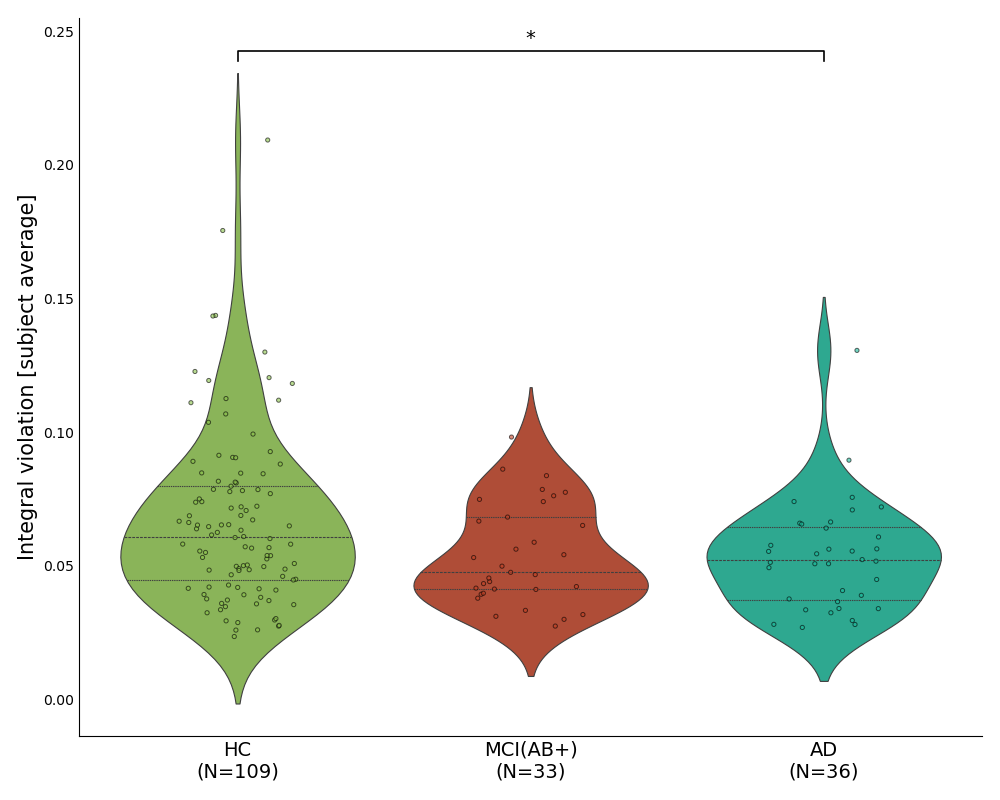
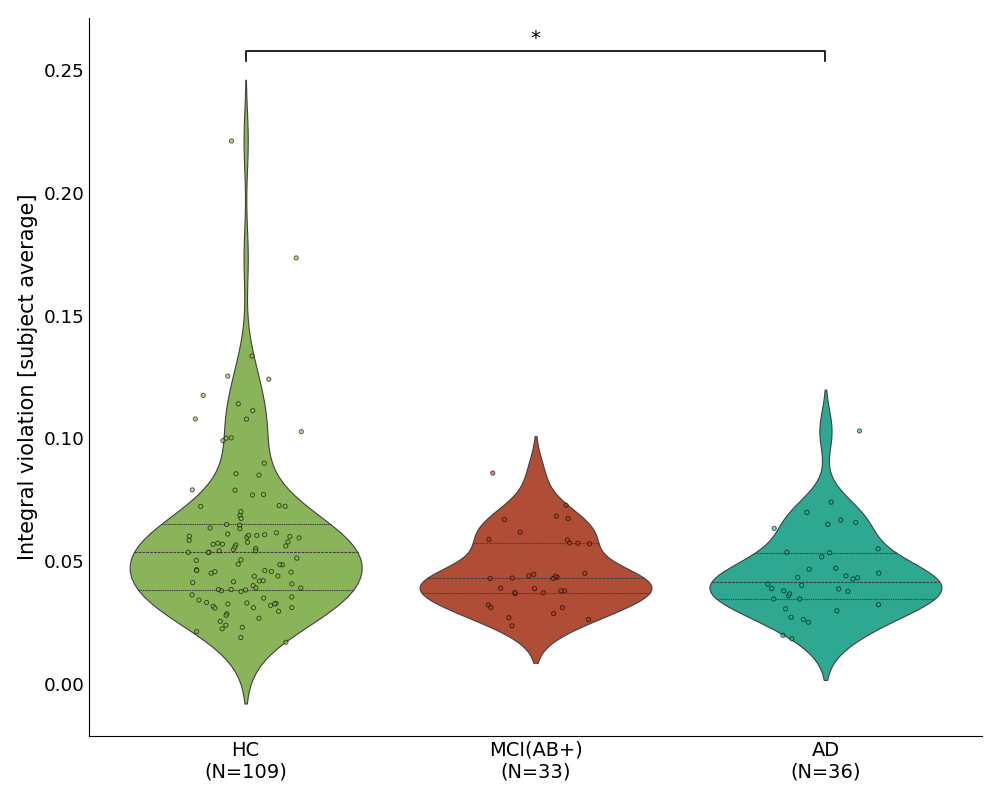
harmonization figure

diff --git a/compute_analysis.py b/compute_analysis.py
@@ -60,10 +60,101 @@ df_based = df_based[:-4] # remove last 4 entries with incomplete data
 df_based.reset_index(drop=True, inplace=True)
 
 ### ANALYSIS PLOTS ###
-df = df_based # model-free: df_free; model-based: df_based
+df = df_free # model-free: df_free; model-based: df_based
 measure = 'I_norm2' # 'I_norm2', 'Tau', 'ABeta'
 RSNs = ['Vis','SalVentAttn', 'SomMot', 'DorsAttn', 'Limbic', 'Cont', 'Def']
 
+print(df.columns)
+print(df.head())
+print(df['subject_id'][2], df['subject_id'][3], df['subject_id'][4], df['subject_id'][5])
+
+
+
+def plot_I_norm2_by_location(df, measure='I_norm2', save_path=None):
+    """
+    Creates a box plot of subject-averaged I_norm2 values grouped by recording location.
+    
+    Parameters
+    ----------
+    df : pd.DataFrame
+        DataFrame containing 'subject_id' and the measure column (e.g., 'I_norm2').
+    measure : str
+        Column name containing the metric values (default: 'I_norm2').
+    save_path : str, optional
+        Path to save the figure. If None, the plot is shown but not saved.
+    
+    Returns
+    -------
+    pd.DataFrame
+        DataFrame with subject averages and their locations.
+    """
+    import matplotlib.pyplot as plt
+    
+    # Extract location from subject_id (3 digits after 'S_')
+    def extract_location(subject_id):
+        parts = subject_id.split('_S_')
+        if len(parts) == 2:
+            return parts[0][:3]  # Get 3 digits after S_
+        return None
+    
+    # Calculate subject average of I_norm2 for each subject
+    subject_averages = []
+    for idx, row in df.iterrows():
+        subject_id = row['subject_id']
+        location = extract_location(subject_id)
+        # Average over the list of I_norm2 values for this subject
+        i_norm2_values = row[measure]
+        if isinstance(i_norm2_values, (list, np.ndarray)):
+            avg_value = np.mean(i_norm2_values)
+        else:
+            avg_value = i_norm2_values
+        subject_averages.append({
+            'subject_id': subject_id,
+            'location': location,
+            f'{measure}_avg': avg_value
+        })
+    
+    avg_df = pd.DataFrame(subject_averages)
+    
+    # Sort locations by number of subjects (descending) for better visualization
+    location_counts = avg_df['location'].value_counts()
+    sorted_locations = location_counts.index.tolist()
+    
+    # Create box plot
+    fig, ax = plt.subplots(figsize=(14, 6))
+    
+    # Prepare data for box plot
+    box_data = [avg_df[avg_df['location'] == loc][f'{measure}_avg'].values 
+                for loc in sorted_locations]
+    
+    bp = ax.boxplot(box_data, labels=sorted_locations, patch_artist=True)
+    
+    # Style the box plot
+    for patch in bp['boxes']:
+        patch.set_facecolor('lightblue')
+        patch.set_alpha(0.7)
+    
+    ax.set_xlabel('Recording Location (Site ID)', fontsize=12)
+    ax.set_ylabel(f'Subject Average {measure}', fontsize=12)
+    ax.tick_params(axis='x', rotation=45)
+    
+    # Add count annotations
+    for i, loc in enumerate(sorted_locations):
+        count = location_counts[loc]
+        ax.annotate(f'n={count}', xy=(i+1, ax.get_ylim()[1]), 
+                    ha='center', va='bottom', fontsize=8, color='gray')
+    
+    plt.tight_layout()
+    
+    if save_path:
+        plt.savefig(save_path, dpi=300, bbox_inches='tight')
+        print(f"Figure saved to {save_path}")
+    
+    plt.show()
+    
+    return avg_df
+
+avg_df = plot_I_norm2_by_location(df, measure='I_norm2')
 ### rearrange data for subject average RSN plots (needed for Fig. A6.2 and Fig. 4.2.4)
 rsn_sub_df = aggregate_all_rsns_for_plotting(
     df=df,
@@ -76,10 +167,10 @@ subject_comparison(df, measure='ABeta', model_type='modelbased', NPARCELLS=NPARC
 subject_comparison(df, measure='Tau', model_type='modelbased', NPARCELLS=NPARCELLS, fit_sigma=fit_sigma, fit_a=fit_a, save_path_plot=save_path_plot, rsn_name='All')
 
 ### Fig. 2.2.1: Empirical vs Simulated FC/COVtau comparisons
-emp_sim_triangles(DL_type=DL_type, NPARCELLS=NPARCELLS, fit_sigma=fit_sigma, fit_a=fit_a, joint_normalization=True, n_conditions=4)
+#emp_sim_triangles(DL_type=DL_type, NPARCELLS=NPARCELLS, fit_sigma=fit_sigma, fit_a=fit_a, joint_normalization=True, n_conditions=4)
 
 ### Fig. 2.2.2: Ceff matrices per group
-plot_ceff_matrices(df, groups=['HC', 'MCI(AB+)', 'AD'], n_parcels=NPARCELLS)
+#plot_ceff_matrices(df, groups=['HC', 'MCI(AB+)', 'AD'], n_parcels=NPARCELLS)
 
 ### Fig. 4.1.1: Violin plots of subject and parcel comparisons
 results = plot_violin_groups_with_significance(

diff --git a/src/functions_frameworks/functions_FDT_modelfree.py b/src/functions_frameworks/functions_FDT_modelfree.py
@@ -130,10 +130,12 @@ def _computeDistanceFromEquilibrium(I):
     I = np.asarray(I)
 
     if I.ndim == 1:
+        print('one')
         I = np.abs(I[:, None] - I[None, :])
 
     diag_mask = np.identity(I.shape[0], dtype=bool)
-    Imask = np.ma.array(np.ones(I.shape[0])-np.abs(I)<0, mask=diag_mask)
+    #Imask = np.ma.array(np.ones(I.shape[0])-np.abs(I)<0, mask=diag_mask)
+    Imask = np.ma.array(np.ones(I.shape[0])-np.abs(I), mask=diag_mask)
     intI = np.average(Imask, axis=1)
 
     return intI
